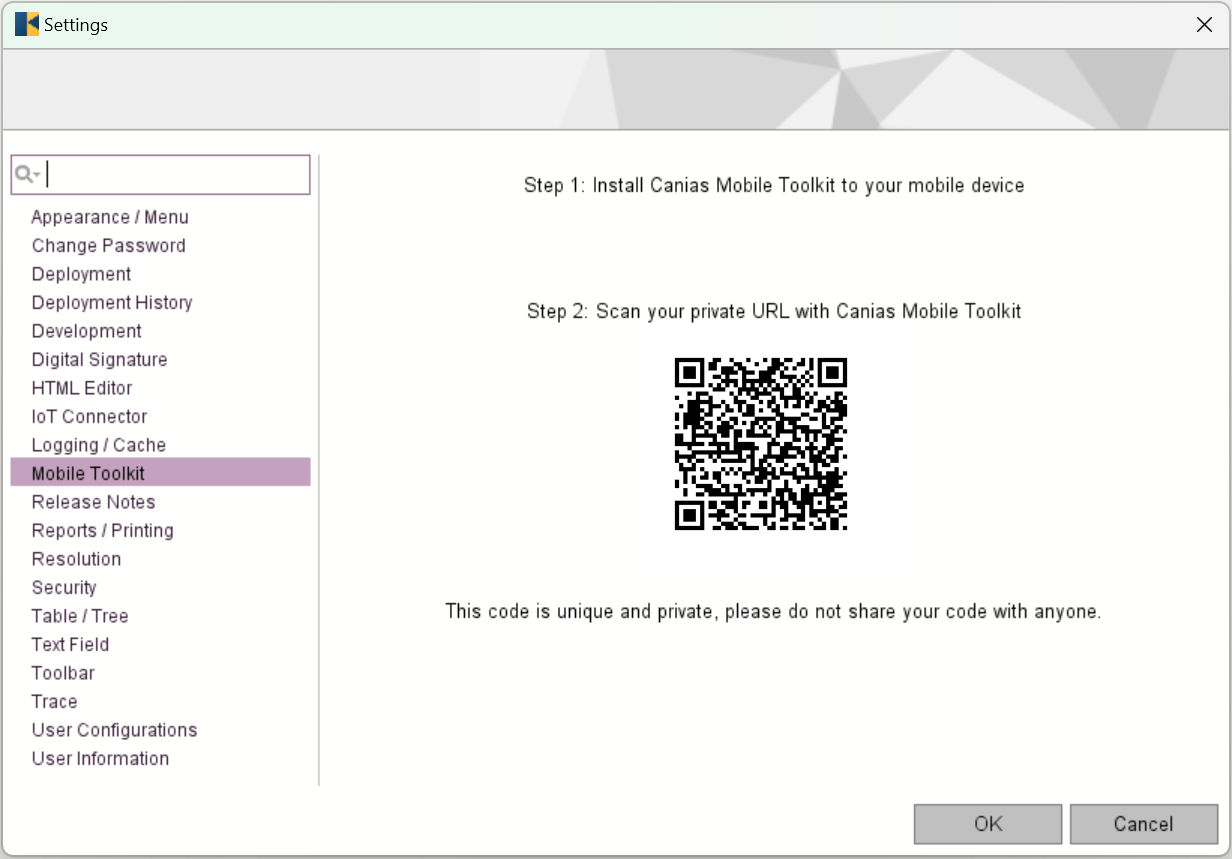
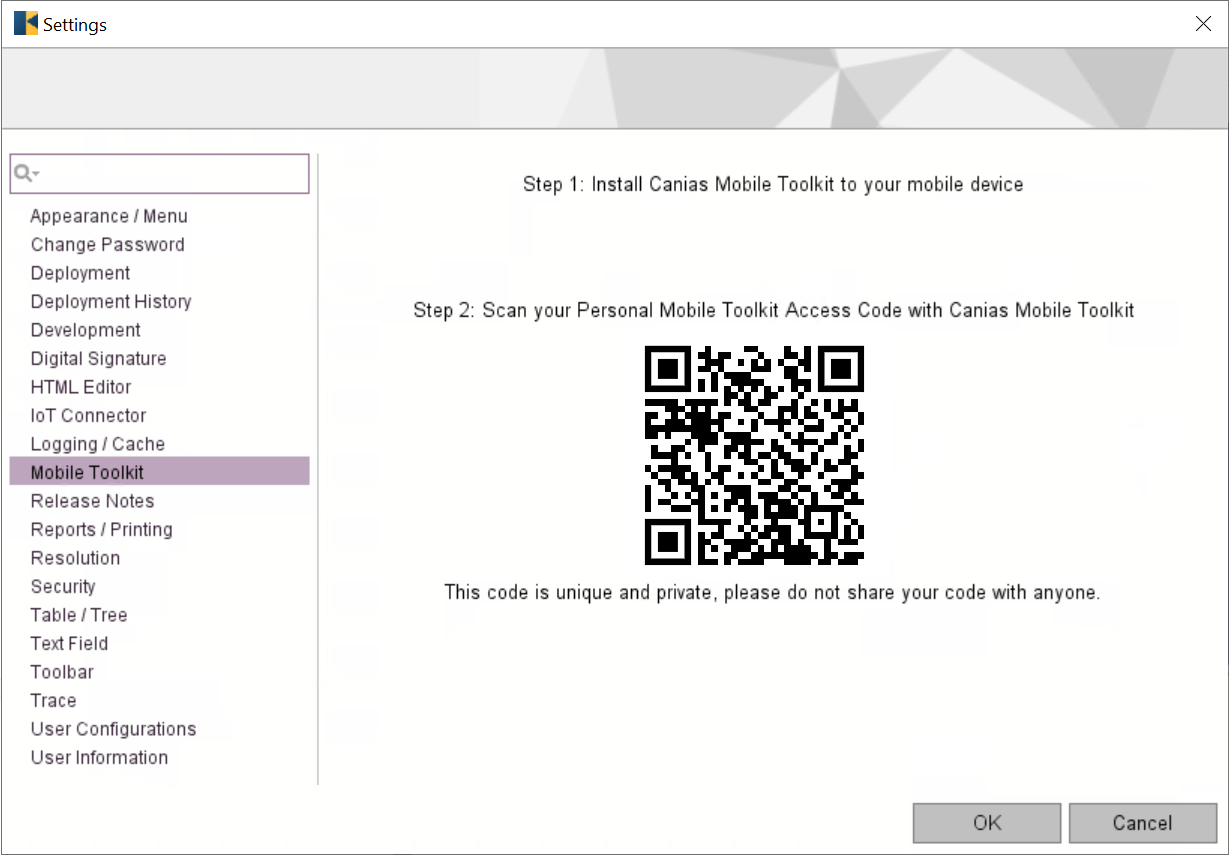
mobile toolkit

diff --git a/docs/93MobileToolkit.rst b/docs/93MobileToolkit.rst
@@ -22,7 +22,7 @@ Mobile Toolkit Support
 
 To run Mobile Toolkit, you must have a TROIA Platform build that supports Mobile Toolkit infrastructure. Builds after 25.04.20-01 support mobile toolkit and required restful services. If your release is older than this build, firstly you must upgrade to proper build.
 
-Mobile Toolkit has also business layer functions so it has some requirements on business layer.
+Mobile Toolkit has also business layer functions so it has some requirements on business layer. If your Canias version is older than 9.03 it is not possible to run mobile toolkit, because 9.03 is the first release that supports Mobile Toolkit.
 
 
 How to Enable Mobile Toolkit
@@ -68,14 +68,14 @@ You can download and install the application on Google Play for your Android dev
 
 Downloading the app to your mobile device does not mean that you can access your system immediately. To start using the application, your system administrator must allow you to connect via the Mobile Toolkit. 
 
-**If you can access the Settings->Mobile Toolkit tab on the client and see a personal access link, that means you have access permission via the mobile toolkit.** Otherwise please contact with your system administrator.
+**If you can access the Settings->Mobile Toolkit tab on the client and see a personal access code as a QR Code, that means you have access permission via the mobile toolkit.** Otherwise please contact with your system administrator.
 
 .. figure:: images/mobiletoolkit/personal_qr.png
    :width: 600 px
    :target: images/mobiletoolkit/personal_qr.png
    :align: center
    
-This personal code contains required info to contact with your servers, so **users have to scan this code with the Mobile Toolkit application for once**. Mobile toolkit has some simple steps to guide the user, so it is enough to follow the instructions on the application to use the application.
+"Personal Mobile Toolkit Access Code" contains required info to contact with your servers, so **users have to scan this code with the Mobile Toolkit application for once**. Mobile toolkit has some simple steps to guide the user, so it is enough to follow the instructions on the application to use the application.
 
 
 Basic Functions and Customization
